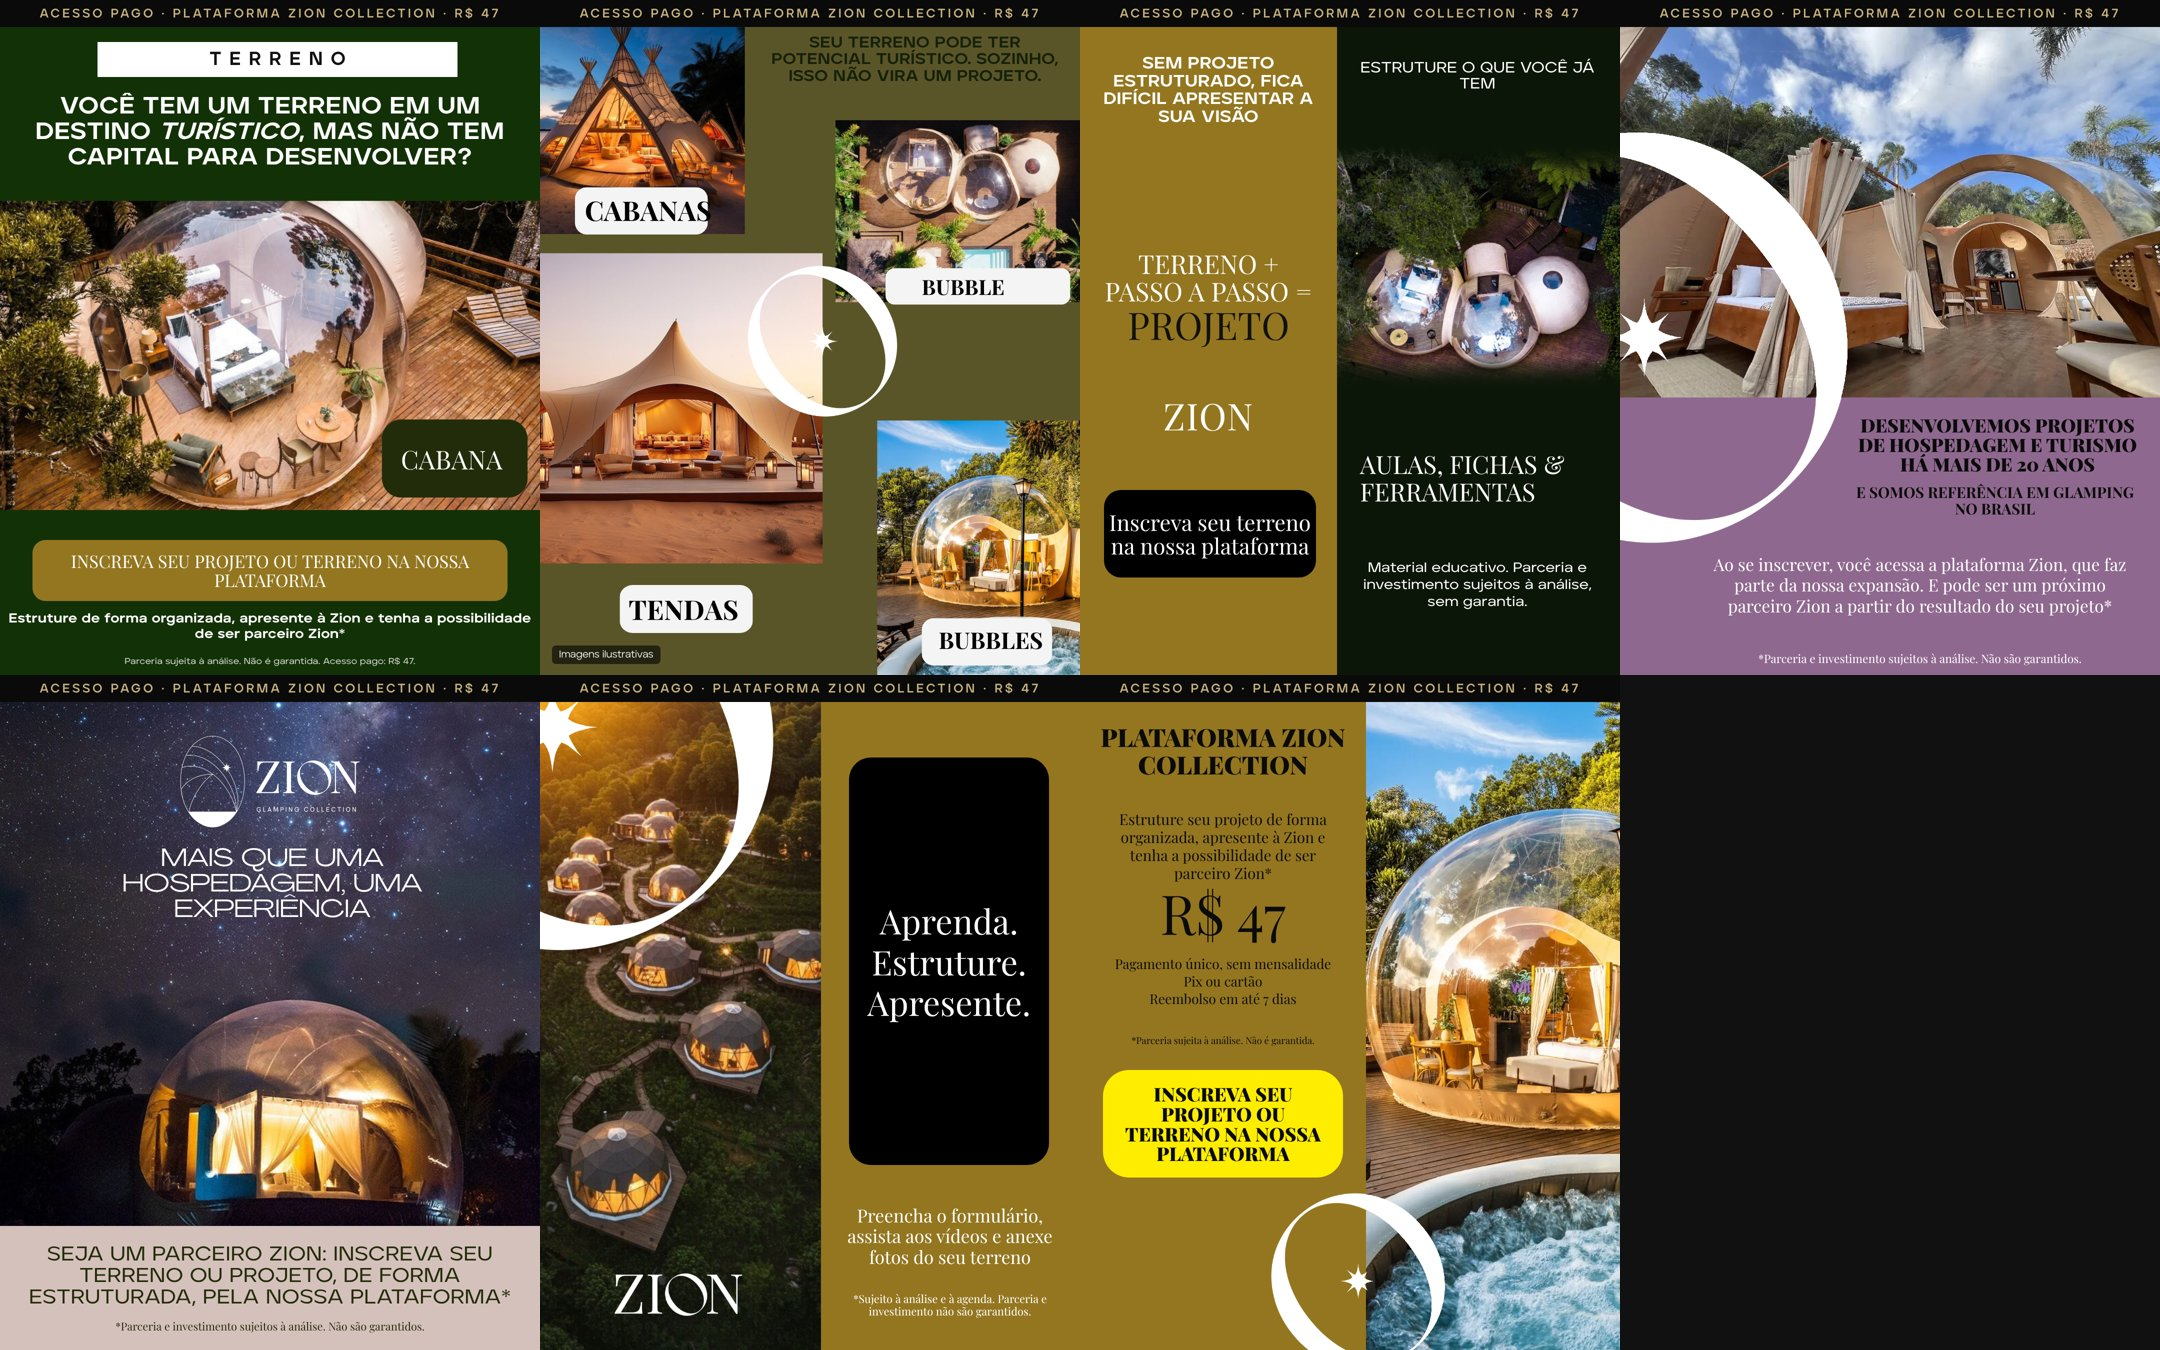
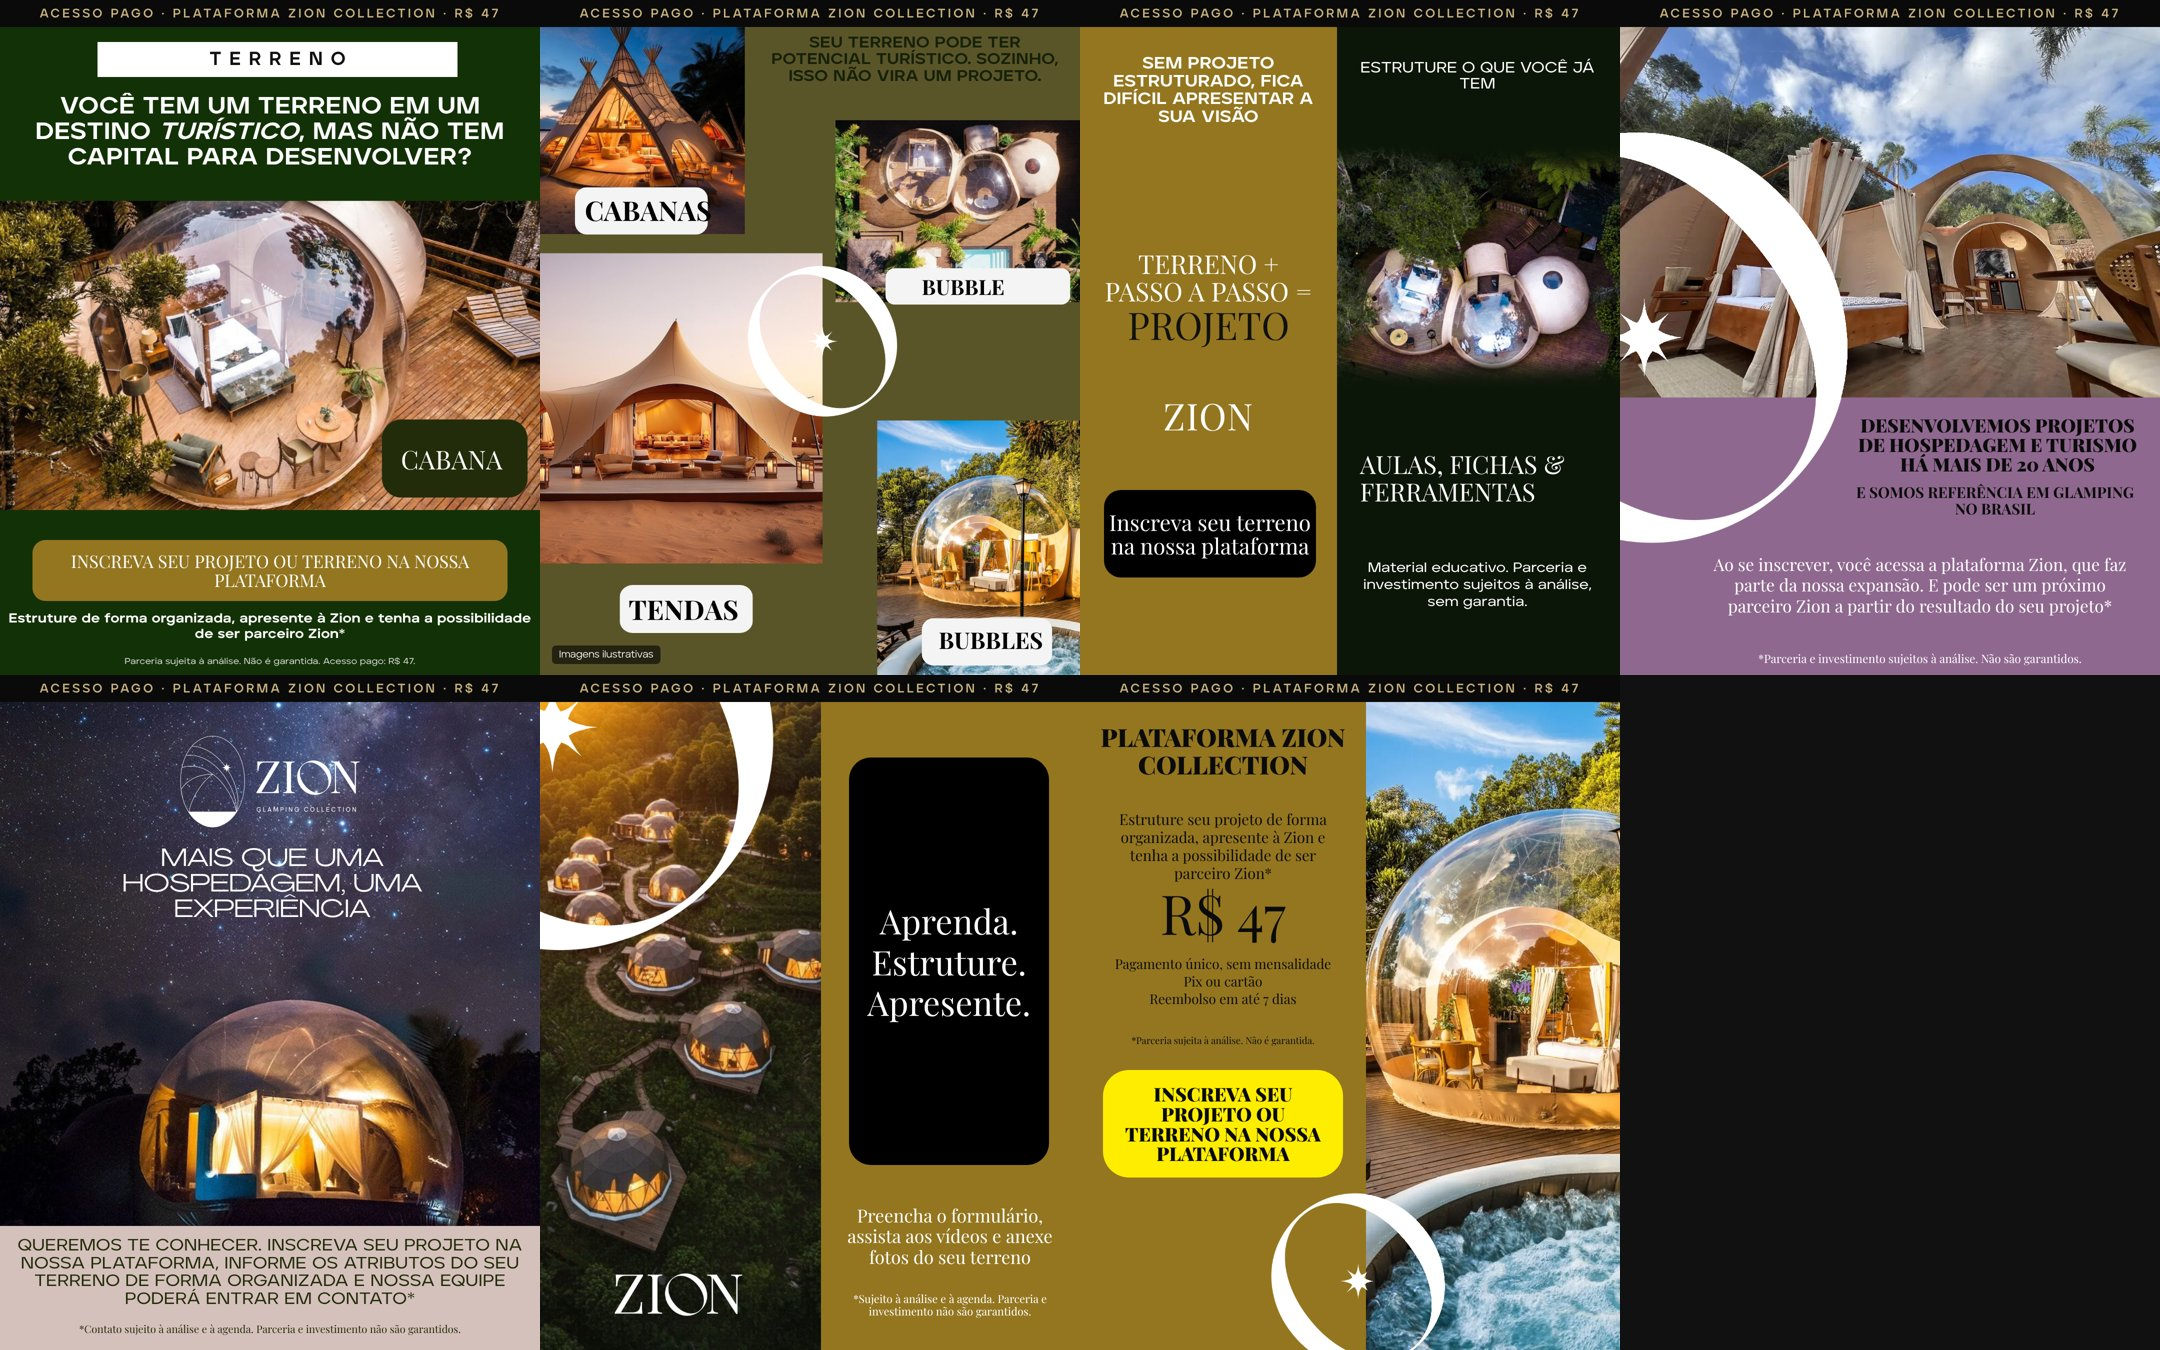
Carrossel campeão R$ 47: cartão 5 'Queremos te conhecer' com atributos do terreno e contato da equipe
Claude-Session: https://claude.ai/code/session_01BzUk5bYdjCT6eSVqUG9zKZ

Changed region(s): [[0.0, 0.9022, 0.2481, 0.9956]]

diff --git a/docs/ads/zc47-carrossel/build.js b/docs/ads/zc47-carrossel/build.js
@@ -43,8 +43,8 @@ const cards=[
 <div class="b s" style="left:150px;width:900px;top:1304px;font-size:23px;color:#fff;line-height:1.1">${NOTA}</div>`],
 // 5 plataforma
 [CN+'5.png',`<div class="b" style="left:0;top:1102px;width:1080px;height:248px;background:${BE}"></div>
-<div class="b w" style="left:70px;right:70px;top:1138px;font-size:40px;color:#232c0a;font-weight:500">Seja um parceiro Zion: inscreva seu terreno ou projeto, de forma estruturada, pela nossa plataforma*</div>
-<div class="b s" style="left:70px;right:70px;top:1290px;font-size:22px;color:#232c0a">${NOTA}</div>`],
+<div class="b w" style="left:70px;right:70px;top:1124px;font-size:33px;color:#232c0a;font-weight:500">Queremos te conhecer. Inscreva seu projeto na nossa plataforma, informe os atributos do seu terreno de forma organizada e nossa equipe poderá entrar em contato*</div>
+<div class="b s" style="left:70px;right:70px;top:1296px;font-size:21px;color:#232c0a">*Contato sujeito à análise e à agenda. Parceria e investimento não são garantidos.</div>`],
 // 6 como funciona
 [CN+'6.png',`<div class="b" style="left:562px;top:0;width:518px;height:1350px;background:${Y}"></div>
 <div class="b s" style="left:618px;width:400px;top:165px;height:815px;border-radius:44px;background:#000;color:#fff;font-size:68px;display:flex;align-items:center;justify-content:center;line-height:1.2;padding:0 26px">Aprenda.<br>Estruture.<br>Apresente.</div>

diff --git a/docs/ads/zc47-carrossel/COPIES.md b/docs/ads/zc47-carrossel/COPIES.md
@@ -10,10 +10,10 @@ Formato: carrossel de 7 cartões, 1080x1350 (`zc47-card-1.png` a `-7.png`), com 
 ## Texto primário
 Acesso pago à plataforma Zion Collection, R$ 47.
 
-Você tem um terreno em um destino turístico e quer desenvolver o seu projeto, mas não sabe por onde começar? Seja um parceiro Zion e inscreva seu terreno ou projeto, de forma estruturada, pela nossa plataforma*. Aprenda o passo a passo, receba conteúdo e informações contínuas e prepare a apresentação do seu projeto.
+Você tem um terreno em um destino turístico e quer desenvolver o seu projeto, mas não sabe por onde começar? Queremos te conhecer. Inscreva seu projeto na nossa plataforma, informe os atributos do seu terreno de forma organizada e nossa equipe poderá entrar em contato*. Aprenda o passo a passo, receba conteúdo e informações contínuas e tenha a possibilidade de ser parceiro Zion.
 
 R$ 47, pagamento único. Pix ou cartão. Reembolso em até 7 dias.
-*Parceria e investimento sujeitos à análise. Não são garantidos.
+*Contato sujeito à análise e à agenda. Parceria e investimento não são garantidos.
 
 ## Título / descrição
 Plataforma Zion Collection · R$ 47 / Pagamento único · Pix ou cartão
@@ -26,3 +26,6 @@ Plataforma Zion Collection · R$ 47 / Pagamento único · Pix ou cartão
 - Cartões 2 e 3 reaproveitam imagens do campeão que não estão na biblioteca da Zion (tendas/tipis, aéreo de domos): ficam como "imagens ilustrativas". Trocar por op/store sem pessoas se Bruno preferir.
 - "Mais de 20 anos" e "referência em glamping" no cartão 4 são afirmações do dono, já usadas no Carrossel C.
 - Sem "12 meses de acesso", sem "de R$ 97", sem urgência, sem promessa de parceria/investimento.
+
+## Cartão 5 (ajuste de Bruno, 27/11)
+"Queremos te conhecer. Inscreva seu projeto na nossa plataforma, informe os atributos do seu terreno de forma organizada e nossa equipe poderá entrar em contato*". Escrevi "poderá" (e não "entrará") porque o contato depende de análise e agenda; "entrará em contato" soaria como garantia.
